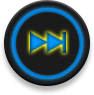
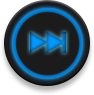
Update color btn play/next/shuffle

Changed region(s): [[0.2766, 0.3158, 0.7447, 0.5895]]

diff --git a/remote_url_opener/templates/assets/style.css b/remote_url_opener/templates/assets/style.css
@@ -312,19 +312,19 @@ div.marquee:before, div.marquee:after {
 }
 
 .historique-hide {
-width: 390px;
-height: 390px;
-position: absolute;
-margin: auto;
-z-index: 2000;
-border: 4px double #007fd5;
-border-radius: 10000px;
-padding: 80px;
-text-align: center;
-visibility: hidden;
-display: block;
+	width: 390px;
+	height: 390px;
+	position: absolute;
+	margin: auto;
+	z-index: 2000;
+	border: 4px double #007fd5;
+	border-radius: 10000px;
+	padding: 80px;
+	text-align: center;
+	visibility: hidden;
+	display: block;
 
-left: 40%;
+	left: 40%;
 }
 
 .historique-slide-out {
@@ -342,17 +342,17 @@ left: 40%;
 }
 
 .historique-visible {
-width: 390px;
-height: 390px;
-position: absolute;
-margin: auto;
-z-index: 2000;
-border: 4px double #007fd5;
-border-radius: 10000px;
-padding: 80px;
-text-align: center;
-visibility: visible;
-display: block;
+	width: 390px;
+	height: 390px;
+	position: absolute;
+	margin: auto;
+	z-index: 2000;
+	border: 4px double #007fd5;
+	border-radius: 10000px;
+	padding: 80px;
+	text-align: center;
+	visibility: visible;
+	display: block;
 }
 .historique-slide-in {
 	animation-name: histo-slide-in;
@@ -372,6 +372,7 @@ display: block;
     overflow: auto !important;
     height: 100%;
     padding-right: 100px;
+    margin-left: 10px;
 }
 
 .bleu-scrollbar::-webkit-scrollbar-track

diff --git a/remote_url_opener/templates/index.html b/remote_url_opener/templates/index.html
@@ -13,7 +13,7 @@
 		<div id="player-center" class="">
 			<div class="title">
 				{% if playing %}
-					<div id="thumbnail" style="background: transparent url('{{actual_thumbnail}}') no-repeat;"></div>
+					<div id="thumbnail" style="background: transparent url('{{playing.thumbnail}}') no-repeat;"></div>
 					<div class="marquee">
 						<span class="now-playing">{{ playing }}</span>
 					</div>
@@ -117,7 +117,7 @@
 				clearInterval(intervalInit)
 			}
 		}
-		var intervalInit = setInterval(beautifullInit, 50)
+		var intervalInit = setInterval(beautifullInit, 20)
 		{% endif %}
 
 

diff --git a/browser/views.py b/browser/views.py
@@ -24,9 +24,6 @@ def home(request):
 
     # The object Music playing
     playing = Player.actual
-    # The thumbnail of the actual music
-    if playing:
-        actual_thumbnail = playing.thumbnail
     # All objects Music
     musics = Music.objects.all()
     # Objects of musics in queue
